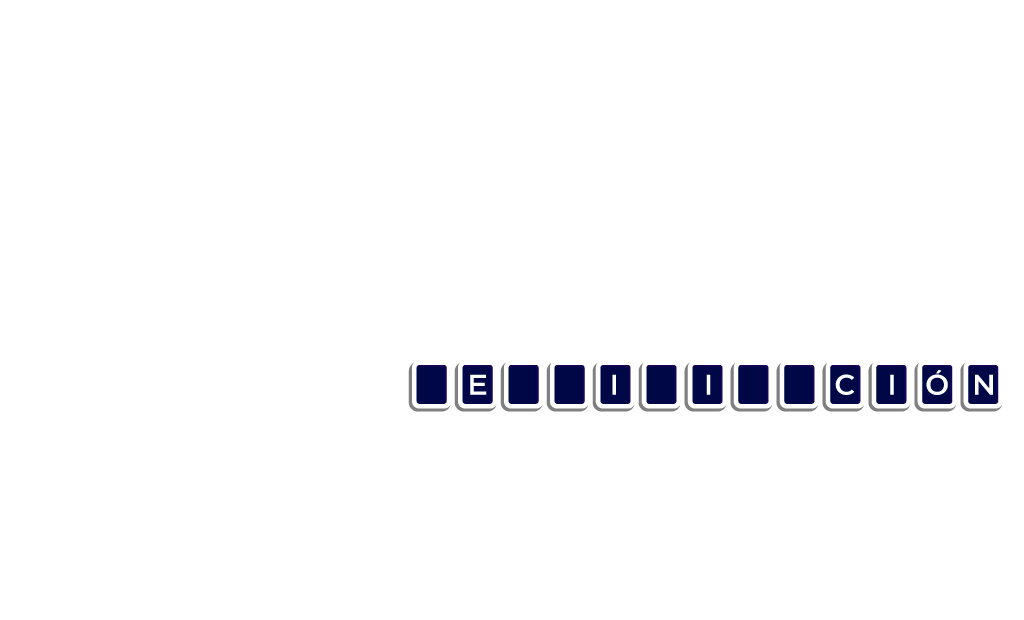
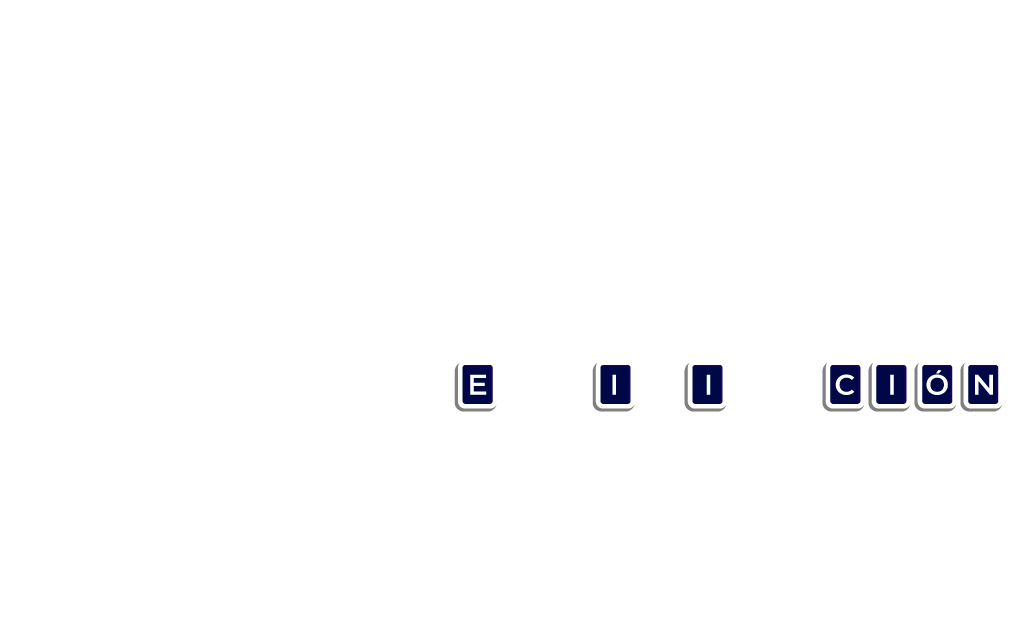
:sparkles: Ajustes cliente

Changed region(s): [[0.625, 0.5823, 0.8125, 0.6742], [0.4688, 0.5823, 0.5938, 0.6742], [0.375, 0.5823, 0.4375, 0.6742]]

diff --git a/contenido/pagina04.html b/contenido/pagina04.html
@@ -22,6 +22,13 @@
     <img class="elementos" id="base" src="./img/pagina04/base.png" data-posX="0" data-posY="0" alt="">
 
     <!-- Cancelación -->
+    <img class="elementos" id="vacia1_1" src="./img/pagina04/vacia.png" data-posX="417" data-posY="352" alt="">
+    <img class="elementos" id="vacia1_2" src="./img/pagina04/vacia.png" data-posX="470" data-posY="352" alt="">
+    <img class="elementos" id="vacia1_3" src="./img/pagina04/vacia.png" data-posX="523" data-posY="352" alt="">
+    <img class="elementos" id="vacia1_4" src="./img/pagina04/vacia.png" data-posX="577" data-posY="352" alt="">
+    <img class="elementos" id="vacia1_5" src="./img/pagina04/vacia.png" data-posX="683" data-posY="352" alt="">
+    <img class="elementos" id="vacia1_6" src="./img/pagina04/vacia.png" data-posX="737" data-posY="352" alt="">
+
     <img class="elementos" id="cancelacionA" src="./img/pagina04/cancelacionA.png" data-posX="0" data-posY="0" alt="">
     <img class="elementos" id="cancelacionN" src="./img/pagina04/cancelacionN.png" data-posX="0" data-posY="0" alt="">
     <img class="elementos" id="cancelacionC" src="./img/pagina04/cancelacionC.png" data-posX="0" data-posY="0" alt="">
@@ -35,6 +42,13 @@
     <img class="elementos" id="cabeza1" src="./img/pagina04/cabeza.png" data-posX="0" data-posY="0" alt="">
 
     <!-- Rectificación -->
+    <img class="elementos" id="vacia2_1" src="./img/pagina04/vacia2.png" data-posX="408" data-posY="360" alt="">
+    <img class="elementos" id="vacia2_2" src="./img/pagina04/vacia2.png" data-posX="500" data-posY="360" alt="">
+    <img class="elementos" id="vacia2_3" src="./img/pagina04/vacia2.png" data-posX="546" data-posY="360" alt="">
+    <img class="elementos" id="vacia2_4" src="./img/pagina04/vacia2.png" data-posX="638" data-posY="360" alt="">
+    <img class="elementos" id="vacia2_5" src="./img/pagina04/vacia2.png" data-posX="730" data-posY="360" alt="">
+    <img class="elementos" id="vacia2_6" src="./img/pagina04/vacia2.png" data-posX="776" data-posY="360" alt="">
+
     <img class="elementos" id="rectificacionA" src="./img/pagina04/rectificacionA.png" data-posX="0" data-posY="0" alt="">
     <img class="elementos" id="rectificacionC" src="./img/pagina04/rectificacionC.png" data-posX="0" data-posY="0" alt="">
     <img class="elementos" id="rectificacionF" src="./img/pagina04/rectificacionF.png" data-posX="0" data-posY="0" alt="">
@@ -49,6 +63,11 @@
     <img class="elementos" id="cabeza2" src="./img/pagina04/cabeza.png" data-posX="0" data-posY="0" alt="">
 
     <!-- Oposición -->
+    <img class="elementos" id="vacia3_1" src="./img/pagina04/vacia.png" data-posX="457" data-posY="352" alt="">
+    <img class="elementos" id="vacia3_2" src="./img/pagina04/vacia.png" data-posX="565" data-posY="352" alt="">
+    <img class="elementos" id="vacia3_3" src="./img/pagina04/vacia.png" data-posX="618" data-posY="352" alt="">
+    <img class="elementos" id="vacia3_4" src="./img/pagina04/vacia.png" data-posX="672" data-posY="352" alt="">
+
     <img class="elementos" id="oposicionI" src="./img/pagina04/oposicionI.png" data-posX="0" data-posY="0" alt="">
     <img class="elementos" id="oposicionO" src="./img/pagina04/oposicionO.png" data-posX="0" data-posY="0" alt="">
     <img class="elementos" id="oposicionS" src="./img/pagina04/oposicionS.png" data-posX="0" data-posY="0" alt="">
@@ -61,6 +80,12 @@
     <img class="elementos" id="cabeza3" src="./img/pagina04/cabeza.png" data-posX="0" data-posY="0" alt="">
 
     <!-- Acceso -->
+    <img class="elementos" id="vacia4_1" src="./img/pagina04/vacia4.png" data-posX="535" data-posY="352" alt="">
+    <img class="elementos" id="vacia4_2" src="./img/pagina04/vacia4.png" data-posX="589" data-posY="352" alt="">
+    <img class="elementos" id="vacia4_3" src="./img/pagina04/vacia4.png" data-posX="695" data-posY="352" alt="">
+    <img class="elementos" id="vacia4_4" src="./img/pagina04/vacia4.png" data-posX="749" data-posY="352" alt="">
+    <img class="elementos" id="vacia4_5" src="./img/pagina04/vacia4.png" data-posX="802" data-posY="352" alt="">
+
     <img class="elementos" id="accesoA" src="./img/pagina04/accesoA.png" data-posX="0" data-posY="0" alt="">
     <img class="elementos" id="accesoC" src="./img/pagina04/accesoC.png" data-posX="0" data-posY="0" alt="">
     <img class="elementos" id="accesoE" src="./img/pagina04/accesoE.png" data-posX="0" data-posY="0" alt="">
@@ -89,7 +114,7 @@
     <!-- Script de la página -->
     <script type="module">
         import {aplicacion} from './js/app.js';
-        import {animacionEntrada, parpadea, animacionSalida} from './js/animaciones.js';
+        import {animacionEntrada, parpadea, animacionSalida, pararParpadear} from './js/animaciones.js';
         import {cargando} from './js/funciones.js';
 
         jQuery(function($){
@@ -166,6 +191,12 @@
             const cancelacionN = $('#cancelacionN');
             const cancelacionL = $('#cancelacionL');
             const cancelacionC = $('#cancelacionC');
+            const vacia1_1 = $('#vacia1_1');
+            const vacia1_2 = $('#vacia1_2');
+            const vacia1_3 = $('#vacia1_3');
+            const vacia1_4 = $('#vacia1_4');
+            const vacia1_5 = $('#vacia1_5');
+            const vacia1_6 = $('#vacia1_6');
 
             let erroresrectificacion = 0;
             let letrasrectificacion = 0;
@@ -175,6 +206,12 @@
             const rectificacionF = $('#rectificacionF');
             const rectificacionR = $('#rectificacionR');
             const rectificacionT = $('#rectificacionT');
+            const vacia2_1 = $('#vacia2_1');
+            const vacia2_2 = $('#vacia2_2');
+            const vacia2_3 = $('#vacia2_3');
+            const vacia2_4 = $('#vacia2_4');
+            const vacia2_5 = $('#vacia2_5');
+            const vacia2_6 = $('#vacia2_6');
 
             let erroresoposicion = 0;
             let letrasoposicion = 0;
@@ -182,6 +219,10 @@
             const oposicionI = $('#oposicionI');
             const oposicionO = $('#oposicionO');
             const oposicionS = $('#oposicionS');
+            const vacia3_1 = $('#vacia3_1');
+            const vacia3_2 = $('#vacia3_2');
+            const vacia3_3 = $('#vacia3_3');
+            const vacia3_4 = $('#vacia3_4');
 
             let erroresacceso = 0;
             let letrasacceso = 0;
@@ -191,6 +232,11 @@
             const accesoE = $('#accesoE');
             const accesoO = $('#accesoO');
             const accesoS = $('#accesoS');
+            const vacia4_1 = $('#vacia4_1');
+            const vacia4_2 = $('#vacia4_2');
+            const vacia4_3 = $('#vacia4_3');
+            const vacia4_4 = $('#vacia4_4');
+            const vacia4_5 = $('#vacia4_5');
 
             let aciertos = 0;
             
@@ -203,6 +249,12 @@
                 animacionEntrada(instrucciones, 'derecha-izquierda', 1);
                 animacionEntrada(frase1, 'izquierda-derecha', 1);
                 animacionEntrada(casillas1, 'arriba-abajo', 1);
+                animacionEntrada(vacia1_1, 'arriba-abajo', 1);
+                animacionEntrada(vacia1_2, 'arriba-abajo', 1);
+                animacionEntrada(vacia1_3, 'arriba-abajo', 1);
+                animacionEntrada(vacia1_4, 'arriba-abajo', 1);
+                animacionEntrada(vacia1_5, 'arriba-abajo', 1);
+                animacionEntrada(vacia1_6, 'arriba-abajo', 1);
                 animacionEntrada(marco, 'arriba-abajo', 1);
                 animacionEntrada(base, 'arriba-abajo', 1);
             }
@@ -212,24 +264,36 @@
             }
 
             function completar1(){
-                
+                parpadea(vacia1_1);
+                parpadea(vacia1_2);
+                parpadea(vacia1_3);
+                parpadea(vacia1_4);
+                parpadea(vacia1_5);
+                parpadea(vacia1_6);
+
                 $(document).keydown(function(event) {
                 
                     if(cancelacion){
                         if(String.fromCharCode(event.which) === 'A'){
                             animacionEntrada(cancelacionA, 'default', .5);
+                            pararParpadear(vacia1_2);
+                            pararParpadear(vacia1_6);
                             letrascancelacion++;
                         }
                         else if(String.fromCharCode(event.which) === 'C'){
                             animacionEntrada(cancelacionC, 'default', .5);
+                            pararParpadear(vacia1_1);
+                            pararParpadear(vacia1_4);
                             letrascancelacion++;
                         }
                         else if(String.fromCharCode(event.which) === 'N'){
                             animacionEntrada(cancelacionN, 'default', .5);
+                            pararParpadear(vacia1_3);
                             letrascancelacion++;
                         }
                         else if(String.fromCharCode(event.which) === 'L'){
                             animacionEntrada(cancelacionL, 'default', .5);
+                            pararParpadear(vacia1_5);
                             letrascancelacion++;
                         }
                         else{
@@ -274,6 +338,12 @@
                             animacionSalida(cancelacionC, 'default', 1, 3);
                             animacionSalida(cancelacionL, 'default', 1, 3);
                             animacionSalida(cancelacionN, 'default', 1, 3);
+                            animacionSalida(vacia1_1, 'default', 1, 3);
+                            animacionSalida(vacia1_2, 'default', 1, 3);
+                            animacionSalida(vacia1_3, 'default', 1, 3);
+                            animacionSalida(vacia1_4, 'default', 1, 3);
+                            animacionSalida(vacia1_5, 'default', 1, 3);
+                            animacionSalida(vacia1_6, 'default', 1, 3);
                             if(letrascancelacion == 4){
                                 aciertos++;
                                 
@@ -288,6 +358,22 @@
                 cancelacion = false;
                 animacionEntrada(frase2, 'izquierda-derecha', 1, 4);
                 animacionEntrada(casillas2, 'arriba-abajo', 1, 4);
+                animacionEntrada(vacia2_1, 'arriba-abajo', 1, 4);
+                animacionEntrada(vacia2_2, 'arriba-abajo', 1, 4);
+                animacionEntrada(vacia2_3, 'arriba-abajo', 1, 4);
+                animacionEntrada(vacia2_4, 'arriba-abajo', 1, 4);
+                animacionEntrada(vacia2_5, 'arriba-abajo', 1, 4);
+                animacionEntrada(vacia2_6, 'arriba-abajo', 1, 4);
+                
+                setTimeout(()=>{
+                    parpadea(vacia2_1);
+                    parpadea(vacia2_2);
+                    parpadea(vacia2_3);
+                    parpadea(vacia2_4);
+                    parpadea(vacia2_5);
+                    parpadea(vacia2_6);
+                }, 5000);
+
                 $(document).off('keydown');
                 completar2();
             }
@@ -297,22 +383,28 @@
                 
                     if(rectificacion){
                         if(String.fromCharCode(event.which) === 'A'){
+                            pararParpadear(vacia2_6);
                             animacionEntrada(rectificacionA, 'default', .5);
                             letrasrectificacion++;
                         }
                         else if(String.fromCharCode(event.which) === 'C'){
+                            pararParpadear(vacia2_2);
+                            pararParpadear(vacia2_5);
                             animacionEntrada(rectificacionC, 'default', .5);
                             letrasrectificacion++;
                         }
                         else if(String.fromCharCode(event.which) === 'F'){
+                            pararParpadear(vacia2_4);
                             animacionEntrada(rectificacionF, 'default', .5);
                             letrasrectificacion++;
                         }
                         else if(String.fromCharCode(event.which) === 'R'){
                             animacionEntrada(rectificacionR, 'default', .5);
+                            pararParpadear(vacia2_1);
                             letrasrectificacion++;
                         }
                         else if(String.fromCharCode(event.which) === 'T'){
+                            pararParpadear(vacia2_3);
                             animacionEntrada(rectificacionT, 'default', .5);
                             letrasrectificacion++;
                         }
@@ -359,6 +451,12 @@
                             animacionSalida(rectificacionF, 'default', 1, 3);
                             animacionSalida(rectificacionR, 'default', 1, 3);
                             animacionSalida(rectificacionT, 'default', 1, 3);
+                            animacionSalida(vacia2_1, 'default', 1, 3);
+                            animacionSalida(vacia2_2, 'default', 1, 3);
+                            animacionSalida(vacia2_3, 'default', 1, 3);
+                            animacionSalida(vacia2_4, 'default', 1, 3);
+                            animacionSalida(vacia2_5, 'default', 1, 3);
+                            animacionSalida(vacia2_6, 'default', 1, 3);
                             if(letrasrectificacion == 5){
                                 aciertos++;
                                 
@@ -373,6 +471,16 @@
                 rectificacion = false;
                 animacionEntrada(frase3, 'izquierda-derecha', 1, 4);
                 animacionEntrada(casillas3, 'arriba-abajo', 1, 4);
+                animacionEntrada(vacia3_1, 'arriba-abajo', 1, 4);
+                animacionEntrada(vacia3_2, 'arriba-abajo', 1, 4);
+                animacionEntrada(vacia3_3, 'arriba-abajo', 1, 4);
+                animacionEntrada(vacia3_4, 'arriba-abajo', 1, 4);
+                setTimeout(()=>{
+                    parpadea(vacia3_1);
+                    parpadea(vacia3_2);
+                    parpadea(vacia3_3);
+                    parpadea(vacia3_4);
+                }, 5000);
                 $(document).off('keydown');
                 completar3();
             }
@@ -382,14 +490,18 @@
                 
                     if(oposicion){
                         if(String.fromCharCode(event.which) === 'I'){
+                            pararParpadear(vacia3_4);
                             animacionEntrada(oposicionI, 'default', .5);
                             letrasoposicion++;
                         }
                         else if(String.fromCharCode(event.which) === 'O'){
+                            pararParpadear(vacia3_1);
+                            pararParpadear(vacia3_2);
                             animacionEntrada(oposicionO, 'default', .5);
                             letrasoposicion++;
                         }
                         else if(String.fromCharCode(event.which) === 'S'){
+                            pararParpadear(vacia3_3);
                             animacionEntrada(oposicionS, 'default', .5);
                             letrasoposicion++;
                         }
@@ -434,6 +546,11 @@
                             animacionSalida(oposicionI, 'default', 1, 3);
                             animacionSalida(oposicionO, 'default', 1, 3);
                             animacionSalida(oposicionS, 'default', 1, 3);
+                            animacionSalida(vacia3_1, 'default', 1, 3);
+                            animacionSalida(vacia3_2, 'default', 1, 3);
+                            animacionSalida(vacia3_3, 'default', 1, 3);
+                            animacionSalida(vacia3_4, 'default', 1, 3);
+                            pararParpadear(vacia4_1);
                             if(letrasoposicion == 3){
                                 aciertos++
                                 
@@ -448,6 +565,18 @@
                 oposicion = false;
                 animacionEntrada(frase4, 'izquierda-derecha', 1, 4);
                 animacionEntrada(casillas4, 'arriba-abajo', 1, 4);
+                animacionEntrada(vacia4_1, 'arriba-abajo', 1, 4);
+                animacionEntrada(vacia4_2, 'arriba-abajo', 1, 4);
+                animacionEntrada(vacia4_3, 'arriba-abajo', 1, 4);
+                animacionEntrada(vacia4_4, 'arriba-abajo', 1, 4);
+                animacionEntrada(vacia4_5, 'arriba-abajo', 1, 4);
+                setTimeout(()=>{
+                    parpadea(vacia4_1);
+                    parpadea(vacia4_2);
+                    parpadea(vacia4_3);
+                    parpadea(vacia4_4);
+                    parpadea(vacia4_5);
+                }, 5000);
                 $(document).off('keydown');
                 completar4();
             }
@@ -457,22 +586,27 @@
                 
                     if(acceso){
                         if(String.fromCharCode(event.which) === 'A'){
+                            pararParpadear(vacia4_1);
                             animacionEntrada(accesoA, 'default', .5);
                             letrasacceso++;
                         }
                         else if(String.fromCharCode(event.which) === 'C'){
+                            pararParpadear(vacia4_2);
                             animacionEntrada(accesoC, 'default', .5);
                             letrasacceso++;
                         }
                         else if(String.fromCharCode(event.which) === 'E'){
+                            pararParpadear(vacia4_3);
                             animacionEntrada(accesoE, 'default', .5);
                             letrasacceso++;
                         }
                         else if(String.fromCharCode(event.which) === 'O'){
+                            pararParpadear(vacia4_5);
                             animacionEntrada(accesoO, 'default', .5);
                             letrasacceso++;
                         }
                         else if(String.fromCharCode(event.which) === 'S'){
+                            pararParpadear(vacia4_4);
                             animacionEntrada(accesoS, 'default', .5);
                             letrasacceso++;
                         }
@@ -519,6 +653,12 @@
                             animacionSalida(accesoS, 'default', 1, 3);
                             animacionSalida(accesoE, 'default', 1, 3);
                             animacionSalida(accesoO, 'default', 1, 3);
+                            animacionSalida(vacia4_1, 'default', 1, 3);
+                            animacionSalida(vacia4_2, 'default', 1, 3);
+                            animacionSalida(vacia4_3, 'default', 1, 3);
+                            animacionSalida(vacia4_4, 'default', 1, 3);
+                            animacionSalida(vacia4_5, 'default', 1, 3);
+                            
                             if(letrasacceso == 5){
                                 aciertos++;
                                 

diff --git a/contenido/pagina03.html b/contenido/pagina03.html
@@ -62,7 +62,7 @@
     <!-- <img class="elementos" id="dialogo" src="./img/pagina03/dialogo01.png" data-posX="0" data-posY="0" alt=""> -->
       <style>
     .boton {
-        background-color: rgba(167, 255, 108, 0.062);
+        background-color: rgba(167, 255, 108, 0.007);
     }
 
     </style>
